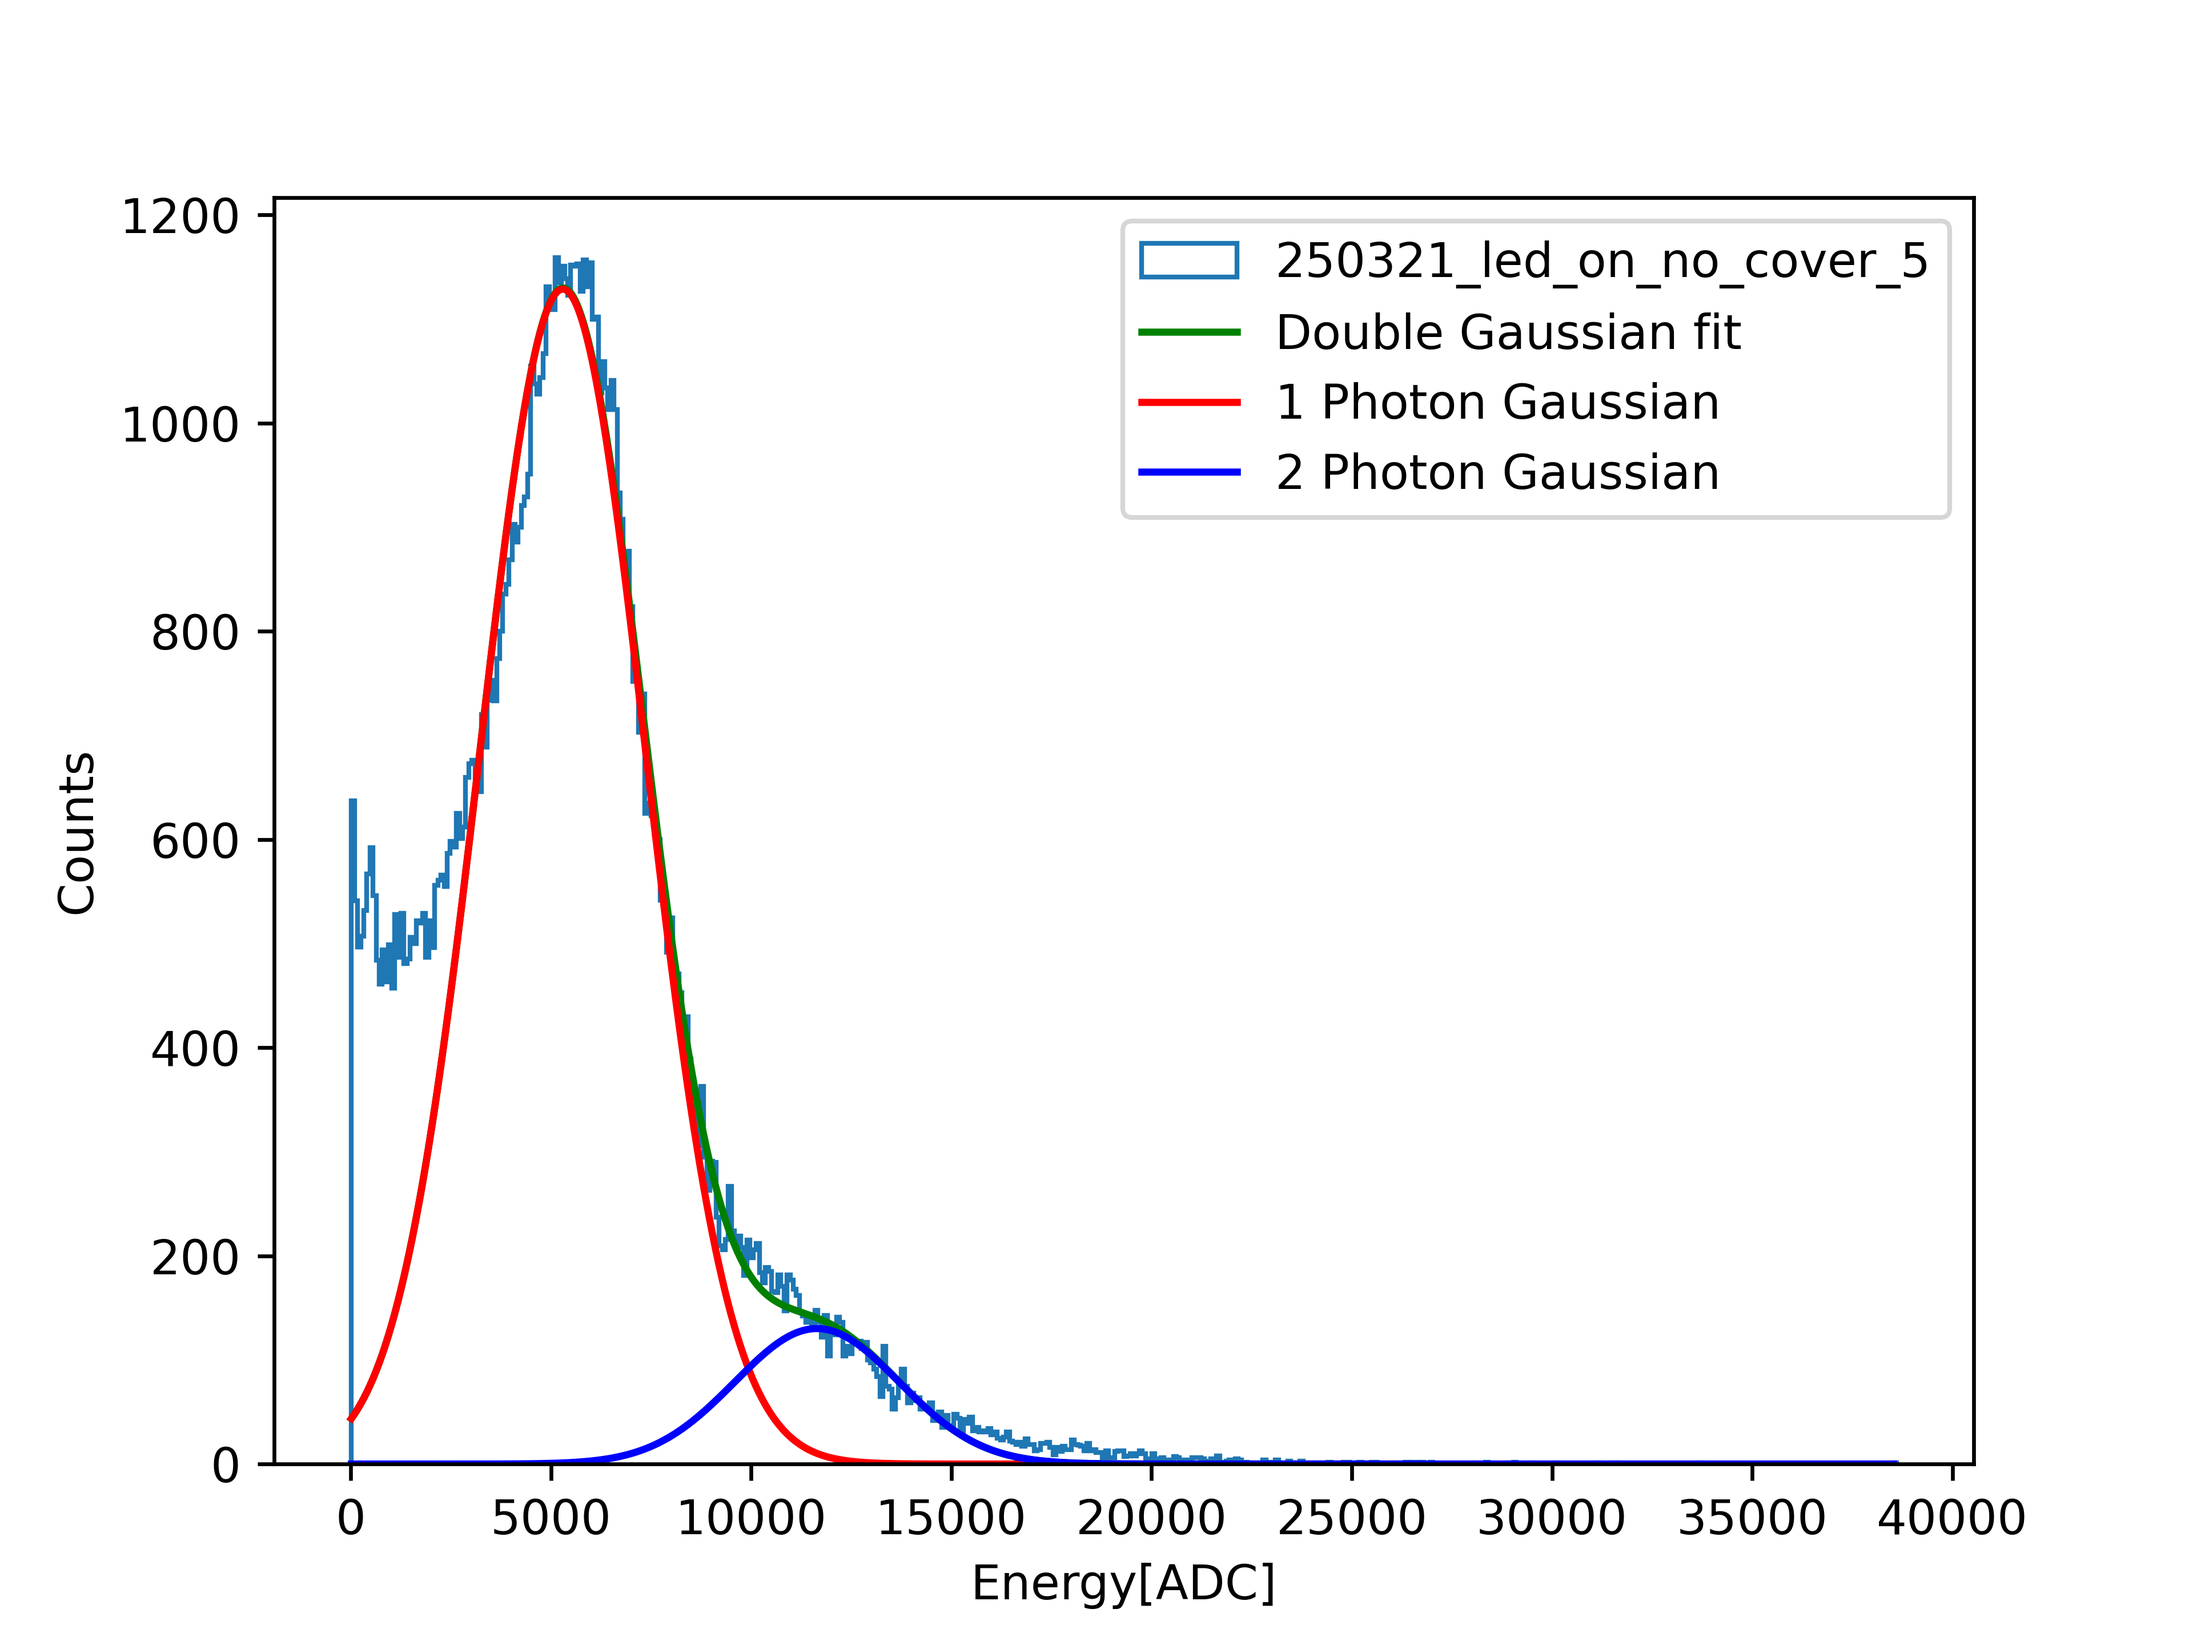
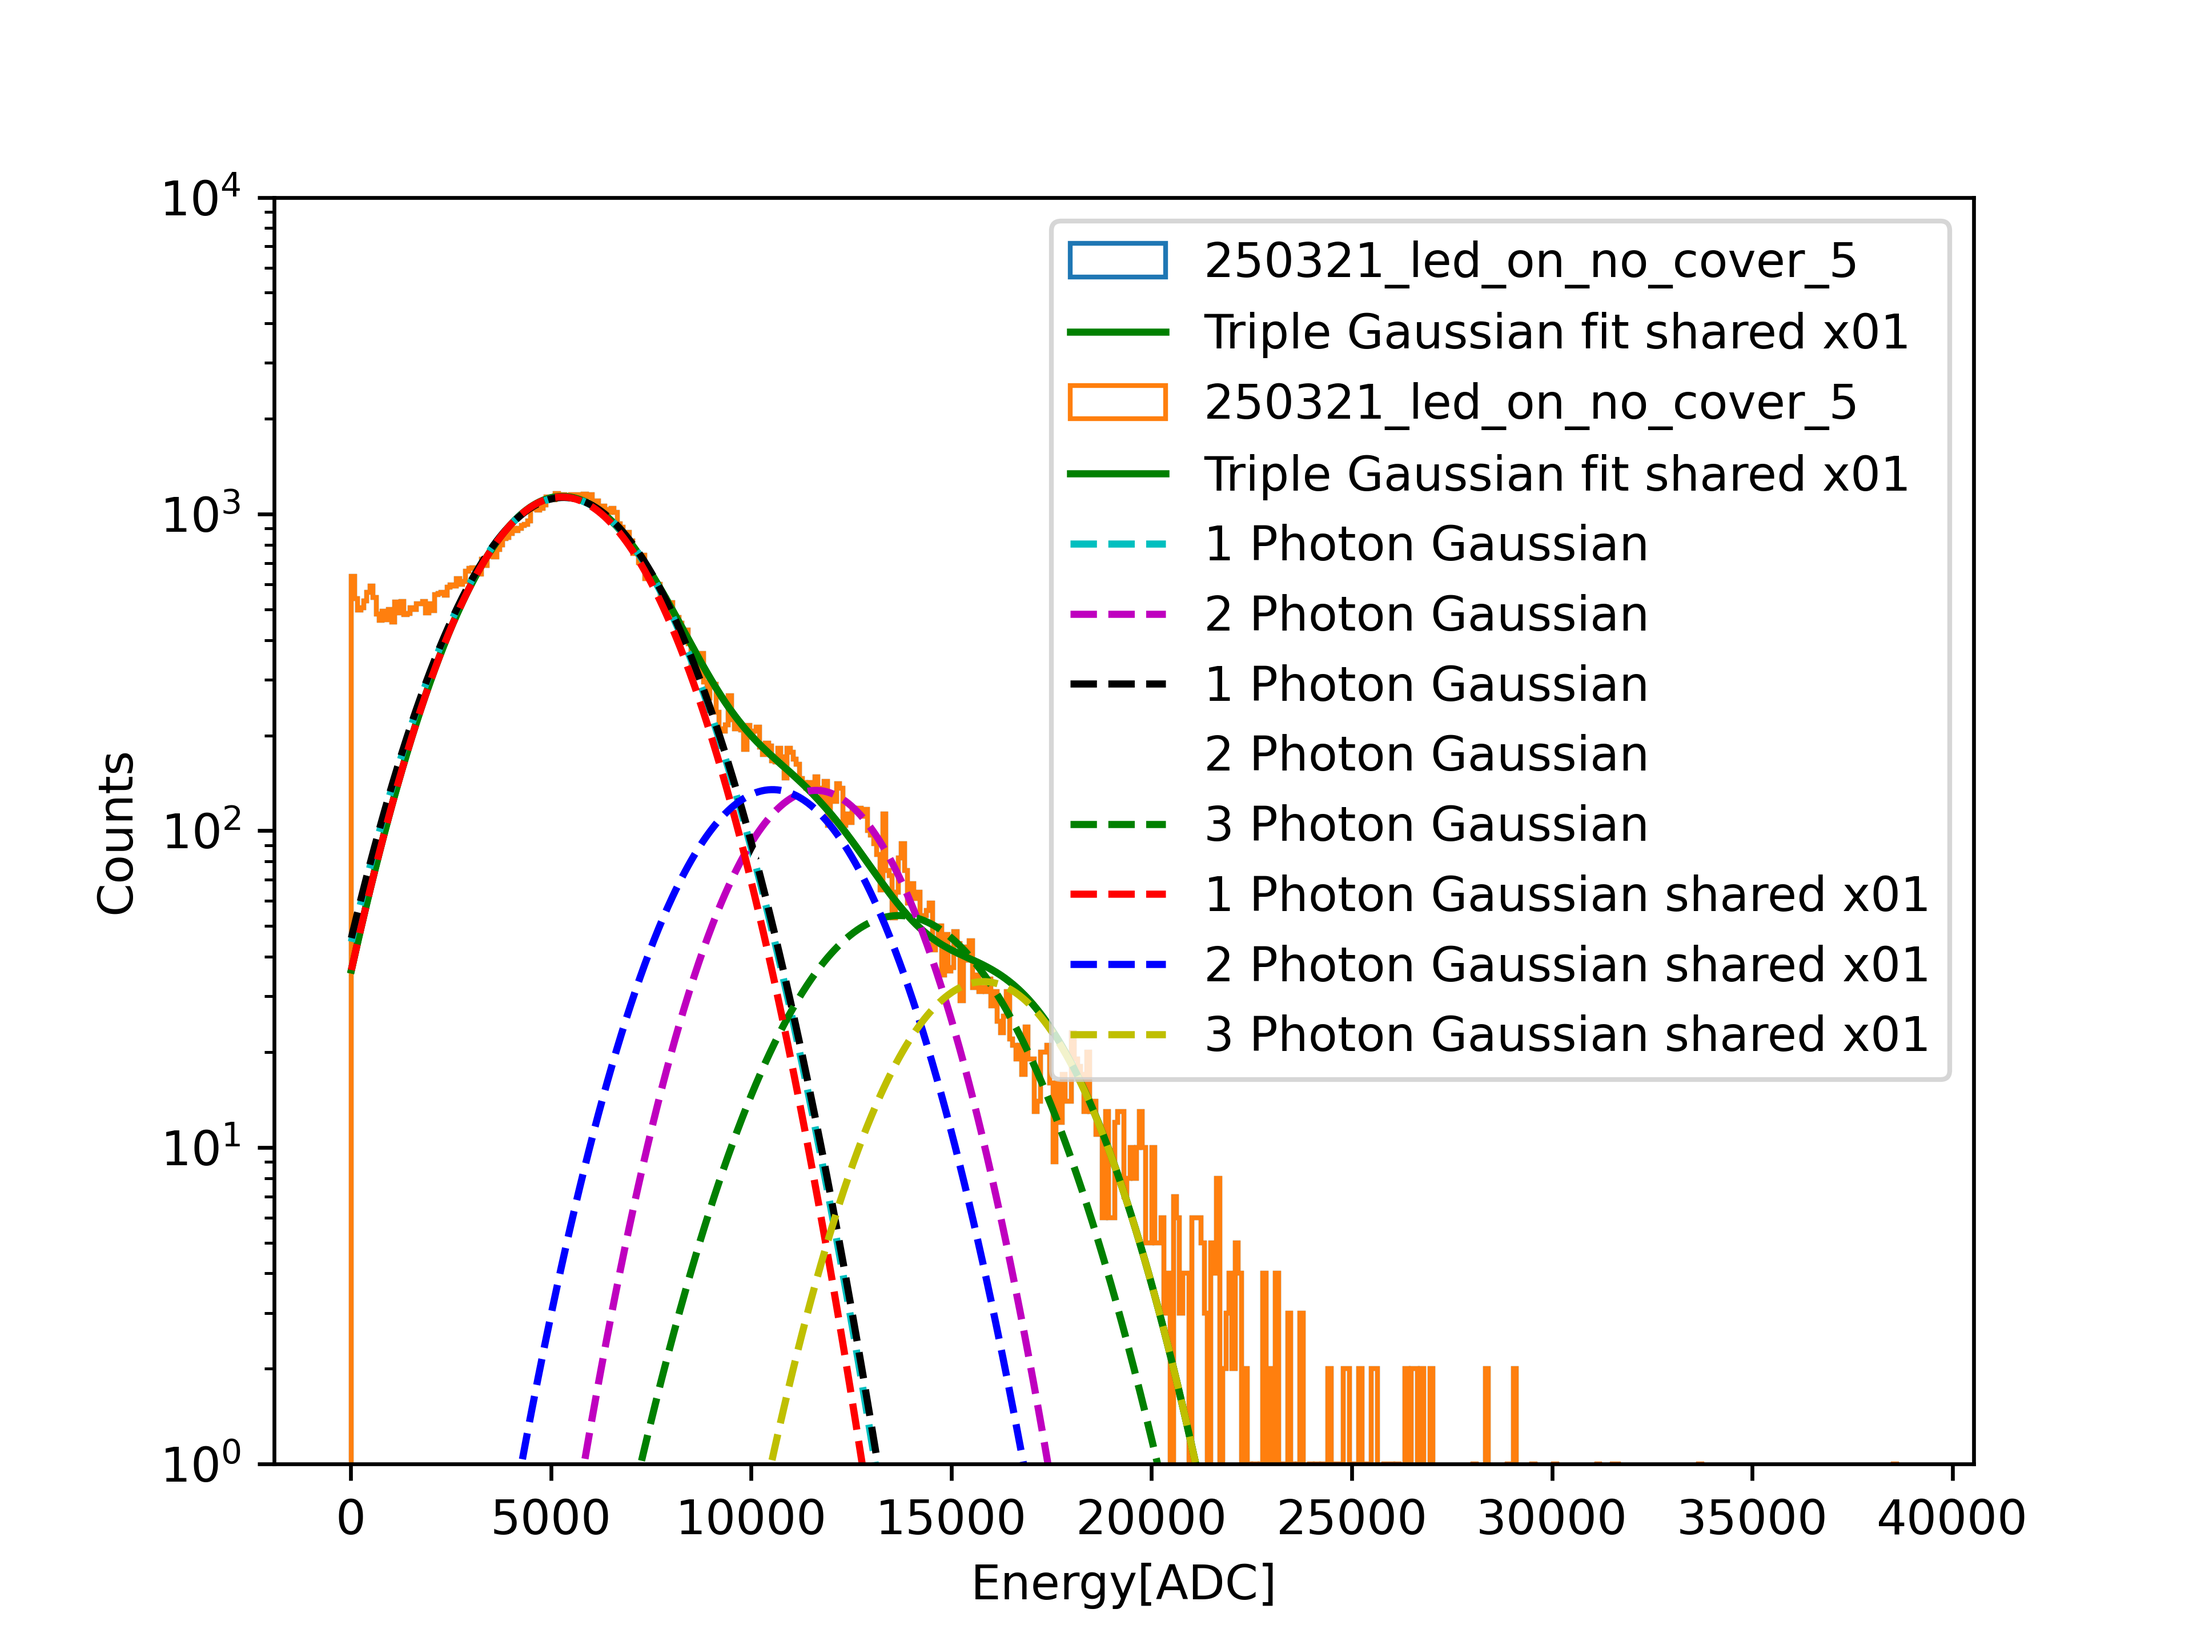
add triple gaussian

diff --git a/analysis/20250331_gaussian_fit.py b/analysis/20250331_gaussian_fit.py
@@ -26,8 +26,23 @@ else:
 def gauss_function(x, a, x0, sigma):
     return a*np.exp(-(x-x0)**2/(2*sigma**2))
 
+
 def double_gauss_function(x, a1, x01, sigma1, a2, x02, sigma2):
     return gauss_function(x, a1, x01, sigma1) + gauss_function(x, a2, x02, sigma2)
+
+
+def triple_gauss_function(x, a1, x01, sigma1, a2, x02, sigma2, a3, x03, sigma3):
+    return gauss_function(x, a1, x01, sigma1) + gauss_function(x, a2, x02, sigma2) + gauss_function(x, a3, x03, sigma3)
+
+
+def triple_gauss_function_shared_sigma(x, a1, x01, sigma1, a2, x02, a3, x03):
+    return gauss_function(x, a1, x01, sigma1) + gauss_function(x, a2, x02, sigma1) + gauss_function(x, a3, x03, sigma1)
+
+
+def triple_gauss_function_shared_sigma_shared_x01(x, a1, x01, sigma1, a2, a3):
+    return (gauss_function(x, a1, x01, sigma1) + gauss_function(x, a2, x01*2, sigma1) +
+            gauss_function(x, a3, x01*3, sigma1))
+
 
 # create 1d histogram (energy) for time between 150 and 200ns
 
@@ -69,22 +84,72 @@ for run in run_id_list:
 
         # fit double Gaussian to histogram
         # x02 should be 2*x01, sigma2 should be sigma1, put those values in the p0. Use values from the first fit
-        hist_x = hist_x_all[33:260]
-        hist_y = hist_y_all[33:260]
+        # hist_x = hist_x_all[33:260]
+        # hist_y = hist_y_all[33:260]
+        hist_x = hist_x_all[33:200]
+        hist_y = hist_y_all[33:200]
         p0 = [popt[0], popt[1], popt[2], popt[0]/10, 2*popt[1], popt[2]]
         popt2, pcov2 = curve_fit(double_gauss_function, hist_x, hist_y, p0=p0)
 
-        # plot Gaussian fit
-        x_fit = np.linspace(min(hist_x_all), max(hist_x_all), 1000)
-        y_fit = double_gauss_function(x_fit, *popt2)
-        plt.plot(x_fit, y_fit, 'g-', label='Double Gaussian fit')
+        # fit triple Gaussian to histogram
+        hist_x = hist_x_all[33:300]
+        hist_y = hist_y_all[33:300]
+        p0 = [popt[0], popt[1], popt[2], popt[0]/10, 2*popt[1], popt[2], popt[0]/100, 3*popt[1], popt[2]]
+        popt3, pcov3 = curve_fit(triple_gauss_function, hist_x, hist_y, p0=p0)
 
-        # plot two gaussians individually
+        # fit triple Gaussian to histogram with shared sigma
+        hist_x = hist_x_all[33:300]
+        hist_y = hist_y_all[33:300]
+        p0 = [popt[0], popt[1], popt[2], popt[0]/10, 2*popt[1], popt[0]/100, 3*popt[1]]
+        popt4, pcov4 = curve_fit(triple_gauss_function_shared_sigma, hist_x, hist_y, p0=p0)
+
+        # fit triple Gaussian to histogram with shared sigma and shared x01
+        hist_x = hist_x_all[33:300]
+        hist_y = hist_y_all[33:300]
+        p0 = [popt[0], popt[1], popt[2], popt[0]/10, popt[0]/100]
+        popt5, pcov5 = curve_fit(triple_gauss_function_shared_sigma_shared_x01, hist_x, hist_y, p0=p0)
+
+
+        # plot Gaussian fit
+        # x_fit = np.linspace(min(hist_x_all), max(hist_x_all), 1000)
+        # y_fit = triple_gauss_function(x_fit, *popt3)
+        # plt.plot(x_fit, y_fit, 'g-', label='Triple Gaussian fit')
+
+        x_fit = np.linspace(min(hist_x_all), max(hist_x_all), 1000)
+        y_fit = triple_gauss_function_shared_sigma_shared_x01(x_fit, *popt5)
+        plt.plot(x_fit, y_fit, 'g-', label='Triple Gaussian fit shared x01')
+
+        # # plot two gaussians individually
         y_fit1 = gauss_function(x_fit, *popt2[:3])
-        plt.plot(x_fit, y_fit1, 'r-', label='1 Photon Gaussian')
+        plt.plot(x_fit, y_fit1, 'c--', label='1 Photon Gaussian')
         y_fit2 = gauss_function(x_fit, *popt2[3:])
-        plt.plot(x_fit, y_fit2, 'b-', label='2 Photon Gaussian')
+        plt.plot(x_fit, y_fit2, 'm--', label='2 Photon Gaussian')
+
+        # plot three gaussians individually
+        y_fit1 = gauss_function(x_fit, *popt3[:3])
+        plt.plot(x_fit, y_fit1, 'k--', label='1 Photon Gaussian')
+        y_fit2 = gauss_function(x_fit, *popt3[3:6])
+        plt.plot(x_fit, y_fit2, 'w--', label='2 Photon Gaussian')
+        y_fit_3 = gauss_function(x_fit, *popt3[6:])
+        plt.plot(x_fit, y_fit_3, 'g--', label='3 Photon Gaussian')
+
+        # plt shared sigma gaussians individually
+        # y_fit1 = gauss_function(x_fit, popt4[0], popt4[1], popt4[2])
+        # plt.plot(x_fit, y_fit1, 'r-', label='1 Photon Gaussian')
+        # y_fit2 = gauss_function(x_fit, popt4[3], popt4[4], popt4[2])
+        # plt.plot(x_fit, y_fit2, 'b-', label='2 Photon Gaussian')
+        # y_fit_3 = gauss_function(x_fit, popt4[5], popt4[6], popt4[2])
+        # plt.plot(x_fit, y_fit_3, 'y-', label='3 Photon Gaussian')
+
+        y_fit1 = gauss_function(x_fit, popt5[0], popt5[1], popt5[2])
+        plt.plot(x_fit, y_fit1, 'r--', label='1 Photon Gaussian shared x01')
+        y_fit2 = gauss_function(x_fit, popt5[3], popt5[1]*2, popt5[2])
+        plt.plot(x_fit, y_fit2, 'b--', label='2 Photon Gaussian shared x01')
+        y_fit_3 = gauss_function(x_fit, popt5[4], popt5[1]*3, popt5[2])
+        plt.plot(x_fit, y_fit_3, 'y--', label='3 Photon Gaussian shared x01')
 
         plt.legend()
+        plt.yscale('log')
+        plt.ylim(1.0, 1e4)
         plt.savefig(f'plots/{date_string}/{run}_energy_histogram.png', dpi=600)
         plt.close()
